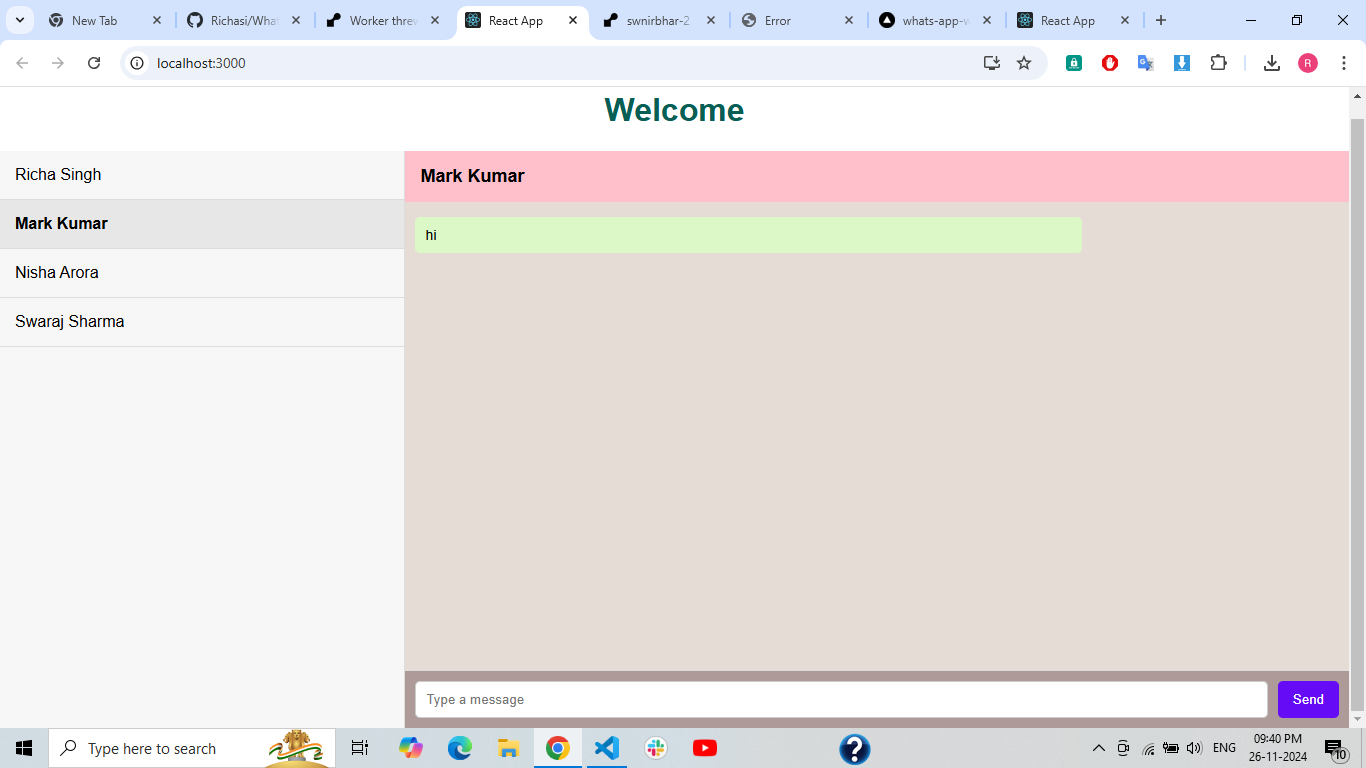
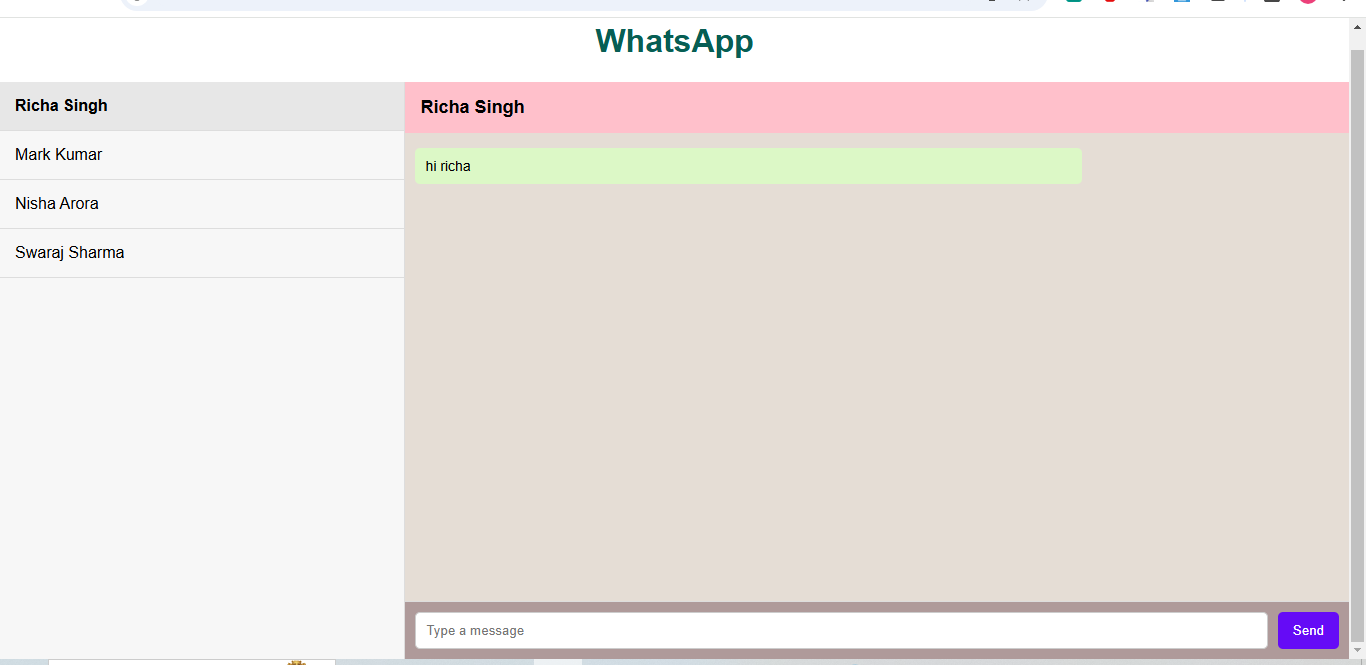
done

diff --git a/whatsappWeb/src/App.css b/whatsappWeb/src/App.css
@@ -45,7 +45,7 @@
 
 .app h1{
   text-align: center;
-  color: #075e54;
+  color: #075e28;
 }
 
 .flexContainer{
